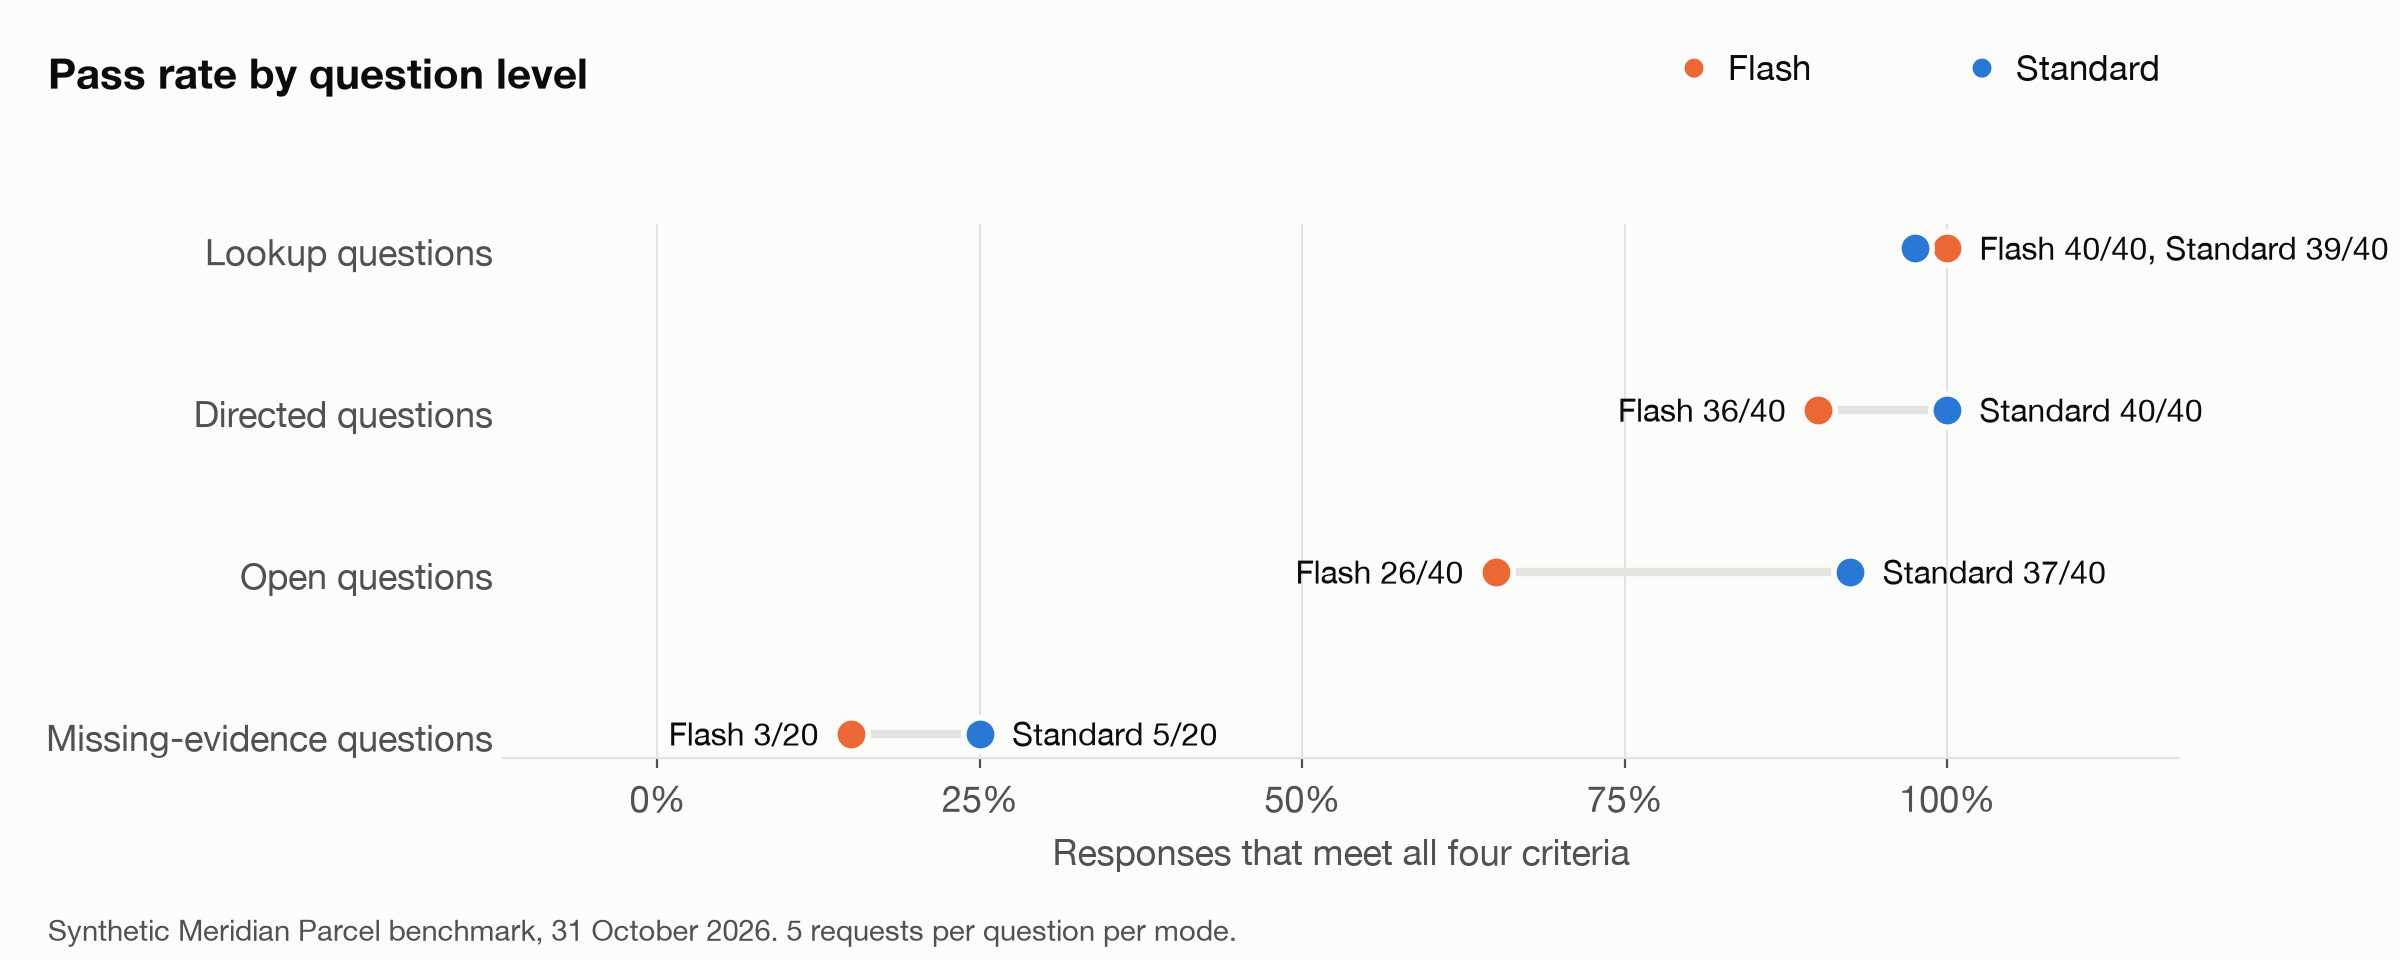
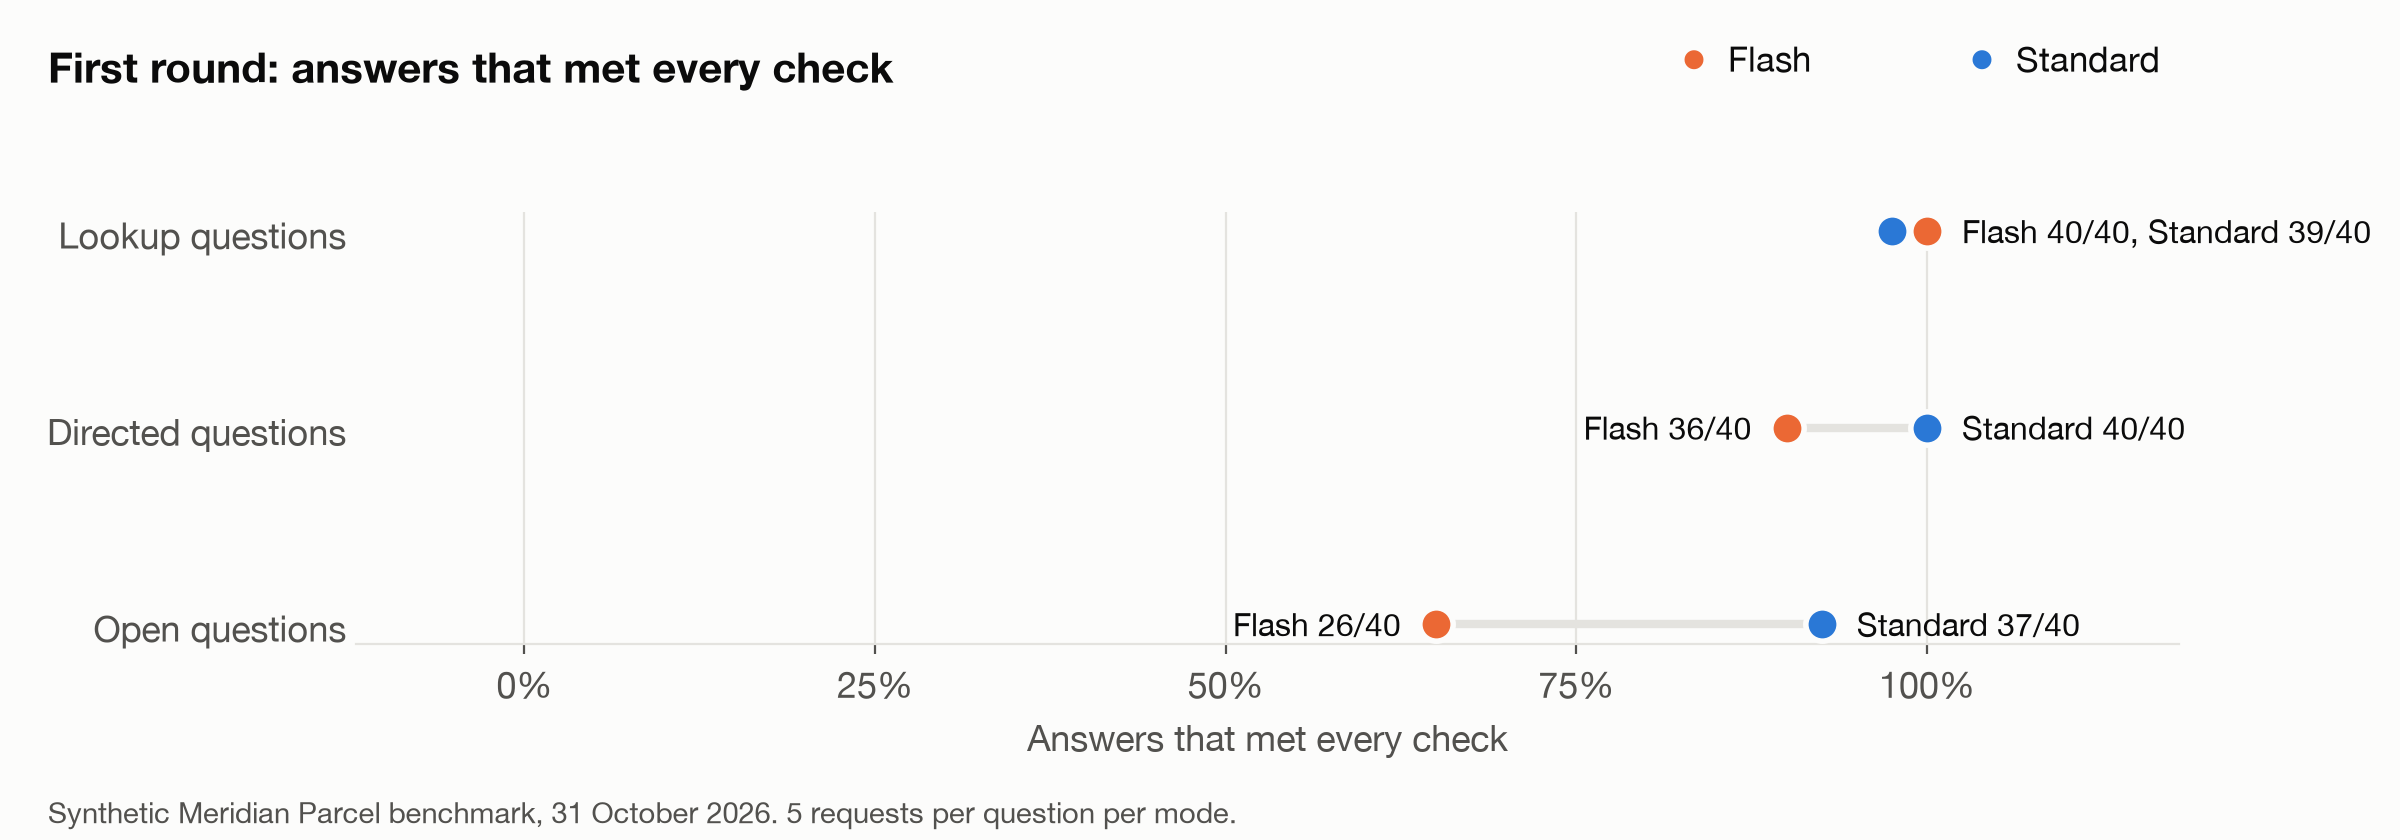
Drop the missing-evidence section from the article
It did not separate the two modes, and the raw answers show the failures
came mostly from my setup. The agent was never told what its tables do not
record, and the routing question assumed no comparison group although
other networks were in the data. The results stay in the repo.

diff --git a/figures/make_result_figures.py b/figures/make_result_figures.py
@@ -47,15 +47,15 @@ def legend(fig):
         fig.text(0.72 + i * 0.12, 0.93, NAME[m], color=INK, fontsize=12.5, va="center")
 
 # Figure 2: pass rate by question level
-levels = [("lookup", "Lookup questions"), ("directed", "Directed questions"), ("open", "Open questions"), ("missing", "Missing-evidence questions")]
-fig, ax = plt.subplots(figsize=(12, 4.8))
+levels = [("lookup", "Lookup questions"), ("directed", "Directed questions"), ("open", "Open questions")]
+fig, ax = plt.subplots(figsize=(12, 4.2))
 vals = {m: [S["pass"][l][m]["passed"] / S["pass"][l][m]["n"] * 100 for l, _ in levels] for m in COLOR}
 ns = [S["pass"][l]["FLASH"]["n"] for l, _ in levels]
 dots(ax, [lab for _, lab in levels], vals, ns, 100, lambda v, n: f"{round(v * n / 100)}/{n}")
 ax.set_xlim(-12, 118)
 ax.set_xticks([0, 25, 50, 75, 100], ["0%", "25%", "50%", "75%", "100%"])
-ax.set_xlabel("Responses that meet all four criteria")
-fig.suptitle("Pass rate by question level", x=0.02, ha="left", y=0.95, fontsize=15, weight="bold", color=INK)
+ax.set_xlabel("Answers that met every check")
+fig.suptitle("First round: answers that met every check", x=0.02, ha="left", y=0.95, fontsize=15, weight="bold", color=INK)
 legend(fig)
 fig.text(0.02, 0.02, FOOT, color=INK2, fontsize=10.5)
 fig.tight_layout(rect=(0, 0.05, 1, 0.9))

diff --git a/article/draft.md b/article/draft.md
@@ -50,7 +50,7 @@ When the question named the check, Flash did as well as Standard. Both reached t
 
 This fits Kahneman's picture. System 1 does fine when someone points it at the right thing. If I ask Genie for volume per day, Flash computes volume per day. It does not need to work out that it should.
 
-![Dot chart of pass rates in the first round by question level. Lookup: Flash 40/40, Standard 39/40. Directed: Flash 36/40, Standard 40/40. Open: Flash 26/40, Standard 37/40. Missing evidence: Flash 3/20, Standard 5/20.](../figures/fig2-pass-by-level.png)
+![Dot chart of first round answers that met every check, by question type. Lookup: Flash 40/40, Standard 39/40. Directed: Flash 36/40, Standard 40/40. Open: Flash 26/40, Standard 37/40.](../figures/fig2-pass-by-level.png)
 
 The one gap on directed questions came from detail, not from the conclusion. Flash sometimes gave the right answer without the numbers behind it.
 
@@ -74,17 +74,12 @@ It also overthought. One lookup asked only for two averages, and Standard added 
 
 Standard also wrote more. Its median open answer in the first round had 233 words, against 63 for Flash, and the judge found 61 unsupported claims in Standard's answers against 30 in Flash's. More reasoning gave Standard more room to be useful and more room to be wrong.
 
-## When neither can know
-
-Some questions asked for things the data does not hold, e.g., how many customers had a problem and never complained. Both modes did badly. Flash passed 3 of 20 and Standard passed 5 of 20. Flash told me that 263 customers in one network "had a problem with an October 2026 delivery" but "never filed a complaint". The data cannot know that. Thinking longer did not help much here.
-
 ## So which one should you use?
 
 Here is how I plan to choose:
 
 - If I can name the check, I use Flash and put the check in the question. I also ask for the supporting numbers, because Flash tends to leave them out.
 - If the obvious number could be wrong for a reason I have not thought of, I use Standard. Partial months, duplicate rows and shifts in mix are the cases where Flash failed in every open run.
-- If the data might not hold the answer, I don't trust either mode until I check what the data contains.
 
 In Kahneman's terms, Flash works like System 1, and the person asking can do the System 2 part. When you know what could go wrong, you can write the check into the question and get the fast answer. When you don't know what could go wrong, wait for Standard to look.
 

diff --git a/medium/final.md b/medium/final.md
@@ -53,7 +53,7 @@ When the question named the check, Flash did as well as Standard. Both reached t
 This fits Kahneman's picture. System 1 does fine when someone points it at the right thing. If I ask Genie for volume per day, Flash computes volume per day. It does not need to work out that it should.
 
 [IMAGE: figures/fig2-pass-by-level.png]
-Alt text: Dot chart of pass rates in the first round by question level. Lookup: Flash 40/40, Standard 39/40. Directed: Flash 36/40, Standard 40/40. Open: Flash 26/40, Standard 37/40. Missing evidence: Flash 3/20, Standard 5/20.
+Alt text: Dot chart of first round answers that met every check, by question type. Lookup: Flash 40/40, Standard 39/40. Directed: Flash 36/40, Standard 40/40. Open: Flash 26/40, Standard 37/40.
 
 The one gap on directed questions came from detail, not from the conclusion. Flash sometimes gave the right answer without the numbers behind it.
 
@@ -78,17 +78,12 @@ It also overthought. One lookup asked only for two averages, and Standard added 
 
 Standard also wrote more. Its median open answer in the first round had 233 words, against 63 for Flash, and the judge found 61 unsupported claims in Standard's answers against 30 in Flash's. More reasoning gave Standard more room to be useful and more room to be wrong.
 
-## When neither can know
-
-Some questions asked for things the data does not hold, e.g., how many customers had a problem and never complained. Both modes did badly. Flash passed 3 of 20 and Standard passed 5 of 20. Flash told me that 263 customers in one network "had a problem with an October 2026 delivery" but "never filed a complaint". The data cannot know that. Thinking longer did not help much here.
-
 ## So which one should you use?
 
 Here is how I plan to choose:
 
 - If I can name the check, I use Flash and put the check in the question. I also ask for the supporting numbers, because Flash tends to leave them out.
 - If the obvious number could be wrong for a reason I have not thought of, I use Standard. Partial months, duplicate rows and shifts in mix are the cases where Flash failed in every open run.
-- If the data might not hold the answer, I don't trust either mode until I check what the data contains.
 
 In Kahneman's terms, Flash works like System 1, and the person asking can do the System 2 part. When you know what could go wrong, you can write the check into the question and get the fast answer. When you don't know what could go wrong, wait for Standard to look.
 
